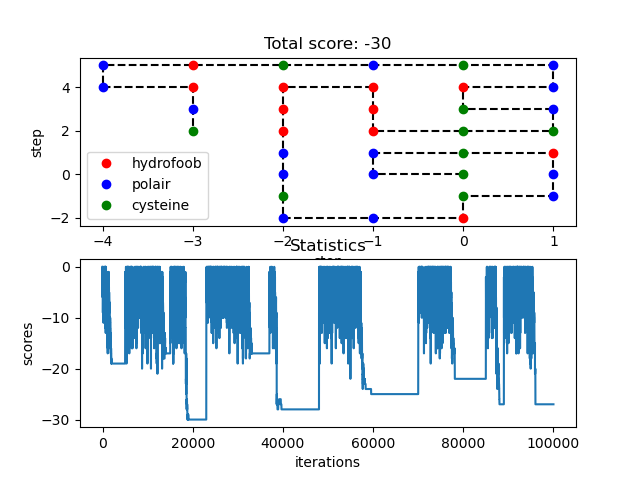
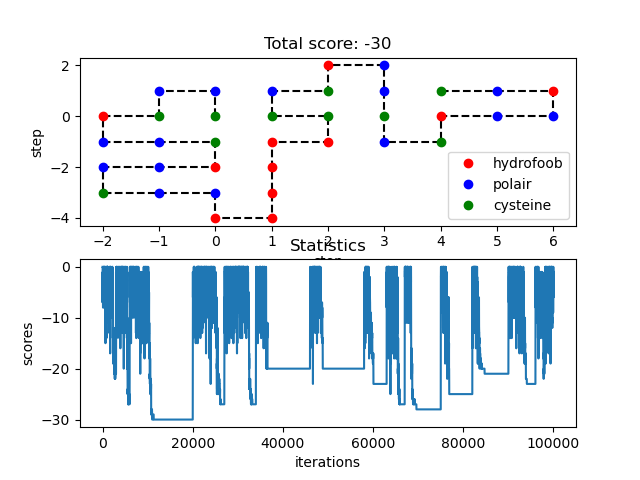
hillclimber added, simulated annealing corrected

diff --git a/simannealplus.py b/simannealplus.py
@@ -73,25 +73,6 @@ def protein_configuration():
             best_y = copy.deepcopy(y)
             lowest_score = copy.deepcopy(old_score)
 
-
-        # if rotations % 1000 == 0:
-        #     if new_score == old_score:                
-        #         local_optimum = True
-
-        # if local_optimum == True:
-        #     local_optimum_rotation = rotations
-        #     print("Found local optimum")
-        #     local_optimum = False
-
-        # temperature = START_TEMP * (0.997 ** (rotations - local_optimum_rotation))
-        # # temperature = START_TEMP - (START_TEMP / ITERATIONS) * rotations
-        # acceptance_chance = 2 ** ((old_score - new_score)/temperature)
-        # treshhold = random.random()
-
-        # if acceptance_chance < treshhold:
-        #     x = backup_x
-        #     y = backup_y
-
         rotations += 1
 
     return best_x, best_y, lowest_score, scores
